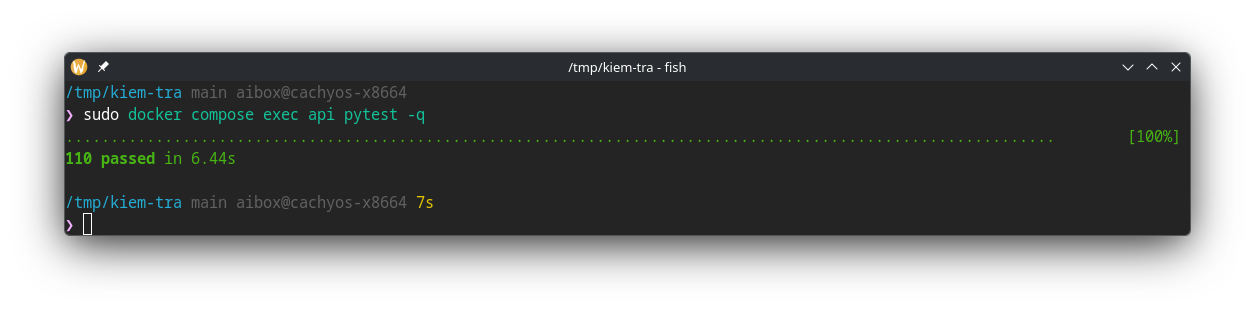
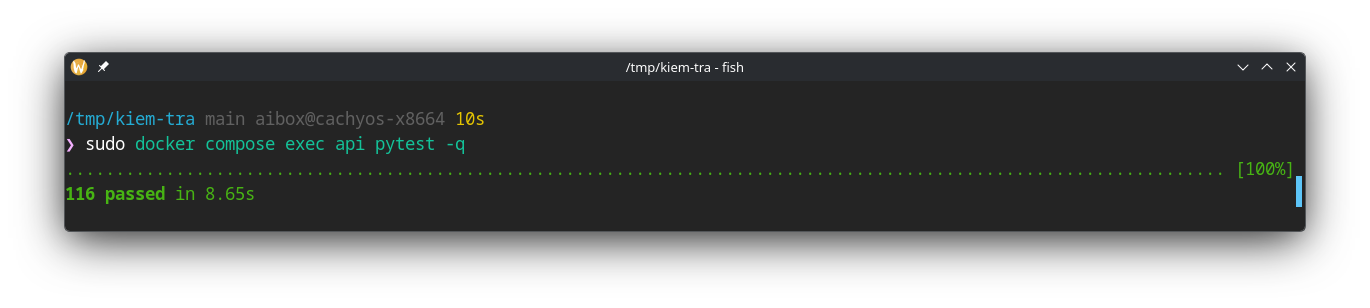
docs(bt3): public demo evidence and the 116-test run; screenshots deploy-1, deploy-2, clean-2
The demo runs on Render from commit 5e9a63d (UI and API variables on the platform,
values hidden). clean-2 is re-taken in the same clean folder after pulling the final
code: 116 passed. The live demo password stays out of the repository (BT3 report only).

Changed region(s): [[0.0311, 0.1461, 0.9633, 0.7597], [0.4351, 0.2045, 0.5594, 0.2338], [0.5904, 0.5552, 0.6215, 0.5844]]

diff --git a/docs/screenshots/README.md b/docs/screenshots/README.md
@@ -11,9 +11,12 @@ the `observed:` line and PASSED/FAILED. The three cases that failed before the f
 | File | Command | Shows |
 |---|---|---|
 | `clean-1.png` | `docker compose ps; curl -s http://localhost:8000/health` | db, api, web `Up … (healthy)`; `{"status":"ok","database":"up"}` |
-| `clean-2.png` | `docker compose exec api pytest -q` | `116 passed` inside the running system |
+| `clean-2.png` | `docker compose exec api pytest -q` | `116 passed` inside the running system (re-run in the same clean folder after `git pull` to `5e9a63d`, the final code with the FR1/FR8/FR9 and demo-password tests) |
 | `clean-3.png` | `docker compose exec api python scripts/migrate.py` and `… seed.py` | second run: `0 applied, 3 already up to date`, every table `+0` |
 | `run3.png` | `docker compose exec api pytest -v -p no:cacheprovider tests/bt3/test_bt3_cases.py` | Test Report run 3: TC-01 … TC-12 PASSED |
 | `sec-1.png` … `sec-7.png` | `bash scripts/security-checks.sh <n>` | the 7 items of `docs/checklist-bao-mat.md` |
+
+| `deploy-1.png` | browser, https://l4-237480201is09-web.onrender.com | the public demo on Render (Deployment Guide §9), logged in as `manager2`: screen M1 with the 27 tickets of center 2 |
+| `deploy-2.png` | Render dashboard → `l4-237480201is09-api` → Environment | the API's variables set on the platform (values hidden), service *Blueprint managed*, live on commit `5e9a63d` |
 
 The student's Docker needs `sudo`, so the commands appear with a `sudo` prefix.

diff --git a/docs/test-report.md b/docs/test-report.md
@@ -45,7 +45,7 @@ message quality · **Low** = convenience.
 | Cases run | 3 (TC-08, TC-09, TC-11) | 12 (TC-01 … TC-12) | 12 (TC-01 … TC-12) · [run3](screenshots/run3.png) |
 | PASS / FAIL | 0 / 3 | 12 / 0 | 12 / 0 |
 | Bugs opened | BUG-011 (Critical), BUG-012 (Major), BUG-013 (Minor) | none | none (BUG-014 … 016 came from the security checklist) |
-| Whole suite, one command | — | `pytest -q` → **98 passed** · [full-suite](screenshots/full-suite.png) | `docker compose exec api pytest -q` → **116 passed** · [clean-2](screenshots/clean-2.png) |
+| Whole suite, one command | — | `pytest -q` → **98 passed** · [full-suite](screenshots/full-suite.png) | `docker compose exec api pytest -q` → **116 passed** (re-run on `5e9a63d`, the final code) · [clean-2](screenshots/clean-2.png) |
 
 **Success criteria (Test Plan §3):** 12/12 cases run with a concrete actual result and a
 screenshot · every implemented rule has a happy-path case and QT-08 is tested on both sides ·

diff --git a/docs/deployment-guide.md b/docs/deployment-guide.md
@@ -140,6 +140,8 @@ with the lowest workload shown in M2.
 **Live:** UI https://l4-237480201is09-web.onrender.com · API https://l4-237480201is09-api.onrender.com/health
 (interactive reference: `/docs`). Demo accounts `manager1` (center 1) and `manager2` (center 2);
 their password is the `DEMO_PASSWORD` set on Render, given in the BT3 report, not in this repository.
+Deployed on 12/11/2026 from commit `5e9a63d`; evidence: `docs/screenshots/deploy-1.png` (the live UI)
+and `deploy-2.png` (the API's variables on Render, values hidden).
 
 `render.yaml` (a Render Blueprint) describes the three parts, all on Render's free plan in Singapore:
 

diff --git a/README.md b/README.md
@@ -4,6 +4,7 @@ Repository `cdtn1-rasphonesamphanthamith-l4` · Track **SE** · Specialized Grad
 
 **Live demo (Render free tier):** https://l4-237480201is09-web.onrender.com — the API sleeps after
 15 minutes without traffic, so the first load can take about a minute (`docs/deployment-guide.md` §9).
+Demo accounts `manager1` / `manager2`; the live site's password is given in the BT3 report, not in the repository.
 
 ## 1. What it does
 
